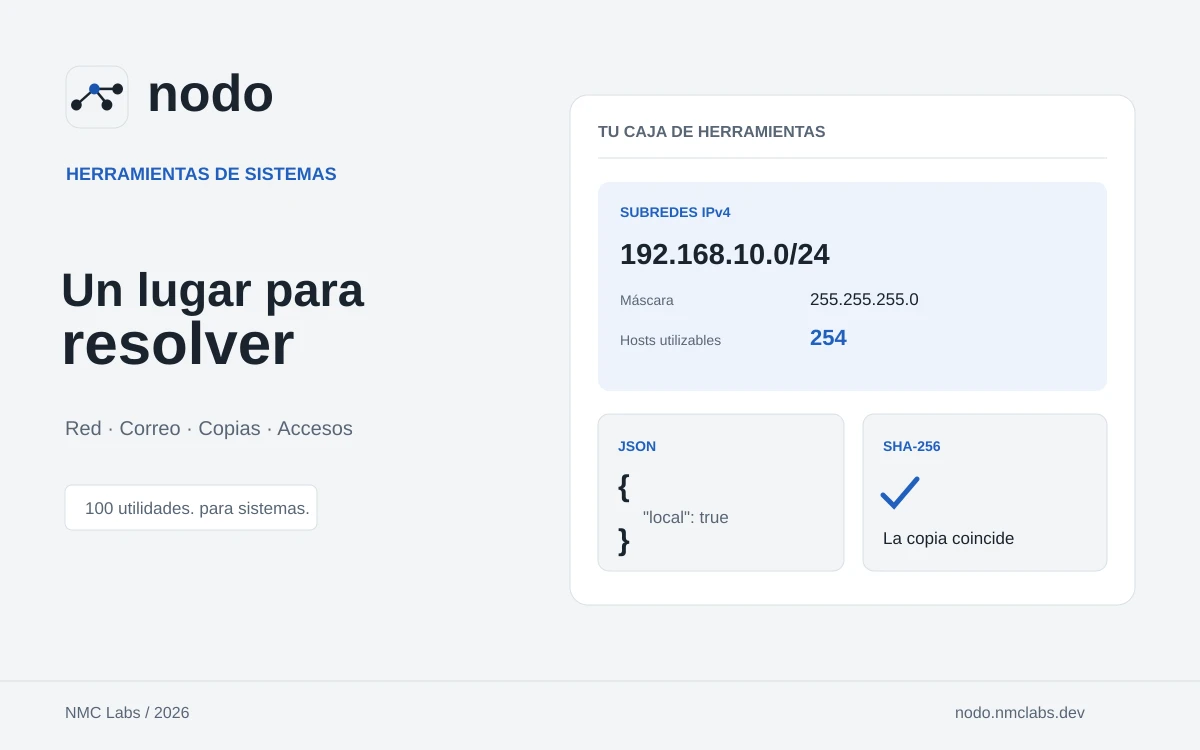
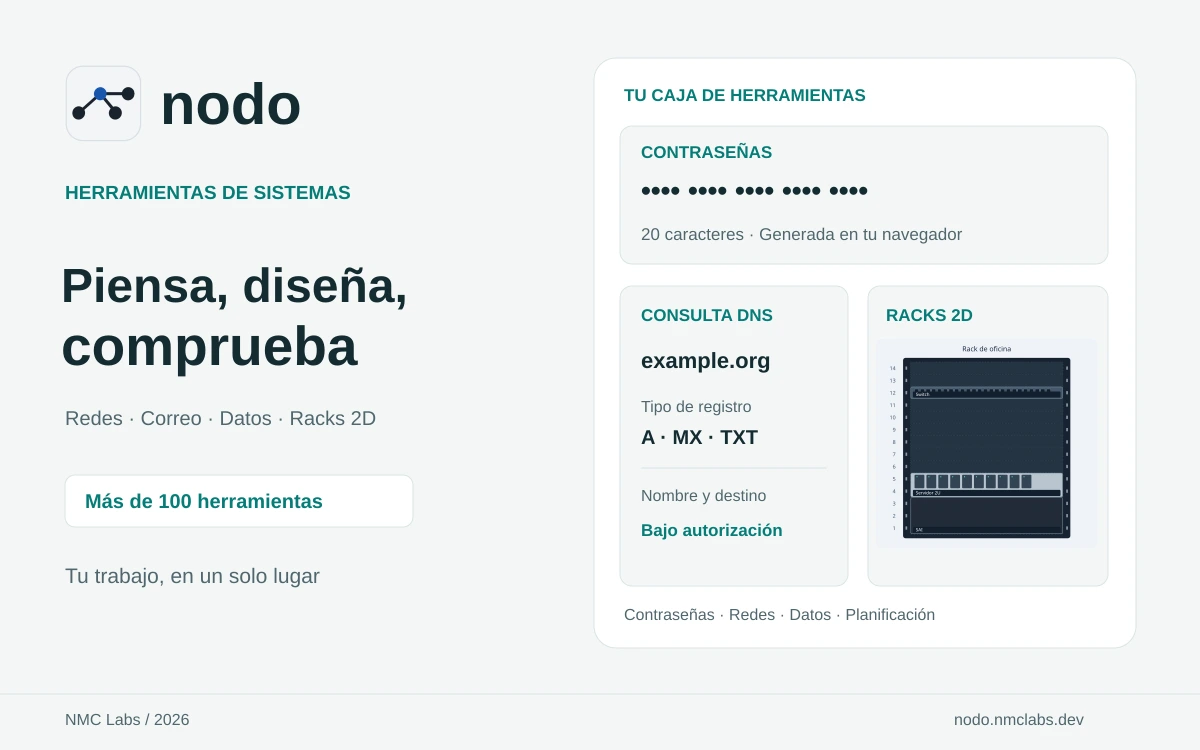
Refresh nodo showcase with passwords DNS and 2D rack planning

diff --git a/index.html b/index.html
@@ -51,7 +51,7 @@
       </article>
       <article class="featured amano-featured" aria-labelledby="amano-titulo"><div class="featured-content"><p class="eyebrow"><time datetime="2026">2026</time> · INVENTARIO DE EMPRESA</p><h3 id="amano-titulo">Cada equipo,<br>en su sitio</h3><p>amano conecta el material de una empresa con las personas, las ubicaciones y su historial. Registra equipos con foto, personaliza la identidad de tu empresa y prueba asignaciones, préstamos, devoluciones, mantenimiento y etiquetas QR.</p><ul class="tags" aria-label="Funciones de amano"><li>Inventario</li><li>Custodia y préstamos</li><li>QR y mantenimiento</li></ul><a class="button project-cta" href="https://amano.nmclabs.dev/" target="_blank" rel="noopener noreferrer">Descubrir amano <span aria-hidden="true"><svg class="icon-arrow" viewBox="0 0 24 24" fill="none"><path d="m6 18 12-12M6 6h12v12" stroke="currentColor" stroke-width="1.7" stroke-linecap="round" stroke-linejoin="round"/></svg></span></a></div><a class="amano-art brand-art" href="https://amano.nmclabs.dev/" target="_blank" rel="noopener noreferrer" aria-label="Descubrir amano en una pestaña nueva"><picture class="project-cover"><source media="(prefers-color-scheme: dark)" srcset="proyectos/amano-brand-dark.webp?v=themes1"><img src="proyectos/amano-brand-light.webp?v=themes1" width="1200" height="750" alt="amano: equipo identificado, portátil y persona responsable" loading="lazy"></picture></a><details class="project-origin"><summary><span>La idea detrás del proyecto</span><span class="origin-toggle" aria-hidden="true">+</span></summary><div class="origin-content" aria-label="La idea de amano"><div><span class="origin-label">LA IDEA</span><p>Saber qué material tiene una empresa, dónde está y quién lo utiliza sin depender de varias hojas y mensajes.</p></div><div><span class="origin-label">EL RETO</span><p>Conectar cada equipo con su persona responsable, las entregas, las devoluciones y los cuidados pendientes.</p></div><div><span class="origin-label">LA DECISIÓN</span><p>Dar identidad propia a cada unidad y permitir probar el recorrido completo, desde el alta hasta una etiqueta QR.</p></div></div></details></article>
       <article class="featured apunto-featured" aria-labelledby="apunto-titulo"><div class="featured-content"><p class="eyebrow"><time datetime="2026">2026</time> · GESTIÓN DE TALLERES</p><h3 id="apunto-titulo">Cada reparación,<br>bajo control</h3><p>apunto conecta citas, recepción y reparación para talleres de coches y motos. El cliente revisa el presupuesto original y sus adicionales; el negocio planifica profesionales y elevadores, gestiona piezas y conserva el historial. Incluye cobro presencial, resguardo y recordatorios de mantenimiento en una demo local.</p><ul class="tags" aria-label="Funciones de apunto"><li>Presupuestos y adicionales</li><li>Clientes y planificación</li><li>Historial y mantenimiento</li></ul><a class="button project-cta" href="https://apunto.nmclabs.dev/" target="_blank" rel="noopener noreferrer">Descubrir apunto <span aria-hidden="true"><svg class="icon-arrow" viewBox="0 0 24 24" fill="none"><path d="m6 18 12-12M6 6h12v12" stroke="currentColor" stroke-width="1.7" stroke-linecap="round" stroke-linejoin="round"/></svg></span></a></div><a class="apunto-art brand-art" href="https://apunto.nmclabs.dev/" target="_blank" rel="noopener noreferrer" aria-label="Descubrir apunto en una pestaña nueva"><picture class="project-cover"><source media="(prefers-color-scheme: dark)" srcset="proyectos/apunto-brand-dark.webp?v=20261121"><img src="proyectos/apunto-brand-light.webp?v=20261121" width="1200" height="750" alt="apunto: marca, vehículo y orden de trabajo" loading="lazy"></picture></a><details class="project-origin"><summary><span>La idea detrás del proyecto</span><span class="origin-toggle" aria-hidden="true">+</span></summary><div class="origin-content" aria-label="La idea de apunto"><div><span class="origin-label">LA IDEA</span><p>Una reparación necesita coordinar el trabajo del taller y mantener informado al cliente.</p></div><div><span class="origin-label">EL RETO</span><p>Conectar diagnóstico, presupuesto y piezas sin perder el estado ni la decisión del cliente.</p></div><div><span class="origin-label">LA DECISIÓN</span><p>Una orden de principio a fin, con acceso del cliente y versiones del presupuesto que conservan su historial.</p></div></div></details></article>
-<article class="featured nodo-featured" aria-labelledby="nodo-titulo"><div class="featured-content"><p class="eyebrow"><time datetime="2026">2026</time> · HERRAMIENTAS DE SISTEMAS</p><h3 id="nodo-titulo">Un lugar para<br>resolver</h3><p>100 herramientas para sistemas: contraseñas con ajuste automático, DNS y correo, redes, informes, datos y soporte. Cada utilidad tiene su propia página y guía. El cálculo es local; las consultas DNS públicas requieren autorización.</p><ul class="tags" aria-label="Funciones de nodo"><li>100 herramientas</li><li>Redes, copias y datos</li><li>Procesamiento local</li></ul><a class="button project-cta" href="https://nodo.nmclabs.dev/" target="_blank" rel="noopener noreferrer">Descubrir nodo</a></div><a class="nodo-art brand-art" href="https://nodo.nmclabs.dev/" target="_blank" rel="noopener noreferrer" aria-label="Descubrir nodo en una pestaña nueva"><picture class="project-cover"><source media="(prefers-color-scheme: dark)" srcset="proyectos/nodo-brand-dark.webp?v=20261122-v6"><img src="proyectos/nodo-brand-light.webp?v=20261122-v6" width="1200" height="750" alt="nodo: herramientas de sistemas, DNS, correo y archivos" loading="lazy"></picture></a><details class="project-origin"><summary><span>La idea detrás del proyecto</span><span class="origin-toggle" aria-hidden="true">+</span></summary><div class="origin-content" aria-label="La idea de nodo"><div><span class="origin-label">LA IDEA</span><p>Resolver esas pequeñas tareas de sistemas que se repiten cada día, desde un solo lugar.</p></div><div><span class="origin-label">EL RETO</span><p>Generar accesos, conectar invitados y comprobar una copia sin enviar información privada a un servicio.</p></div><div><span class="origin-label">LA DECISIÓN</span><p>Un catálogo con buscador, seis áreas y procesos aislados. Documentos locales y consultas DNS autorizadas, sin guardar datos entre visitas.</p></div></div></details></article>
+<article class="featured nodo-featured" aria-labelledby="nodo-titulo"><div class="featured-content"><p class="eyebrow"><time datetime="2026">2026</time> · HERRAMIENTAS DE SISTEMAS</p><h3 id="nodo-titulo">Piensa, diseña,<br>comprueba</h3><p>Más de 100 herramientas para trabajar con redes, correo, datos y accesos. Diseña racks en 2D, coloca equipos, comprueba DNS y prepara informes. Una interfaz centrada en cada tarea, con cálculos locales y consultas externas autorizadas.</p><ul class="tags" aria-label="Funciones de nodo"><li>Más de 100 herramientas</li><li>Contraseñas y DNS</li><li>Racks 2D</li></ul><a class="button project-cta" href="https://nodo.nmclabs.dev/" target="_blank" rel="noopener noreferrer">Descubrir nodo</a></div><a class="nodo-art brand-art" href="https://nodo.nmclabs.dev/" target="_blank" rel="noopener noreferrer" aria-label="Descubrir nodo en una pestaña nueva"><picture class="project-cover"><source media="(prefers-color-scheme: dark)" srcset="proyectos/nodo-brand-dark.webp?v=20261124-focus"><img src="proyectos/nodo-brand-light.webp?v=20261124-focus" width="1200" height="750" alt="nodo: contraseñas, consulta DNS y diseñador de racks 2D" loading="lazy"></picture></a><details class="project-origin"><summary><span>La idea detrás del proyecto</span><span class="origin-toggle" aria-hidden="true">+</span></summary><div class="origin-content" aria-label="La idea de nodo"><div><span class="origin-label">LA IDEA</span><p>Resolver esas pequeñas tareas de sistemas que se repiten cada día, desde un solo lugar.</p></div><div><span class="origin-label">EL RETO</span><p>Generar accesos, conectar invitados y comprobar una copia sin enviar información privada a un servicio.</p></div><div><span class="origin-label">LA DECISIÓN</span><p>Herramientas agrupadas en la navegación superior, procesos locales y un editor visual de racks. Los proyectos se descargan de forma explícita y las consultas públicas requieren autorización.</p></div></div></details></article>
       <article class="featured estancia-featured" aria-labelledby="estancia-titulo"><div class="featured-content"><p class="eyebrow"><time datetime="2026">2026</time> · HOTELES Y ALOJAMIENTOS</p><h3 id="estancia-titulo">Cada estancia,<br>bien cuidada</h3><p>estancia conecta reservas, habitaciones y tarifas de temporada para hoteles, apartamentos y casas rurales. Gestiona categorías y fotos, prueba el check-in del huésped y atiende sus incidencias. Incluye informes, web del alojamiento y una guía para preparar conexiones con Airbnb o Booking.</p><ul class="tags" aria-label="Funciones de estancia"><li>Reservas</li><li>Tipos y cupos</li><li>Tarifas e informes</li></ul><a class="button project-cta" href="https://estancia.nmclabs.dev/" target="_blank" rel="noopener noreferrer">Descubrir estancia <span aria-hidden="true"><svg class="icon-arrow" viewBox="0 0 24 24" fill="none"><path d="m6 18 12-12M6 6h12v12" stroke="currentColor" stroke-width="1.7" stroke-linecap="round" stroke-linejoin="round"/></svg></span></a></div><a class="estancia-art brand-art" href="https://estancia.nmclabs.dev/" target="_blank" rel="noopener noreferrer" aria-label="Descubrir estancia en una pestaña nueva"><picture class="project-cover"><source media="(prefers-color-scheme: dark)" srcset="proyectos/estancia-brand-dark.webp?v=themes1"><img src="proyectos/estancia-brand-light.webp?v=themes1" width="1200" height="750" alt="estancia: marca, alojamiento y calendario de reservas" loading="lazy"></picture></a><details class="project-origin"><summary><span>La idea detrás del proyecto</span><span class="origin-toggle" aria-hidden="true">+</span></summary><div class="origin-content" aria-label="La idea de estancia"><div><span class="origin-label">LA IDEA</span><p>Organizar reservas y preparar cada llegada sin perder la cercanía con los huéspedes.</p></div><div><span class="origin-label">EL RETO</span><p>Conectar la disponibilidad de cada unidad, las tareas y la experiencia de quien reserva.</p></div><div><span class="origin-label">LA DECISIÓN</span><p>Una gestión para el negocio y una web con su propia identidad, con ejemplos de hotel, apartamentos y finca rural.</p></div></div></details></article>
       <article class="featured atlas-featured" aria-labelledby="atlas-titulo">
         <div class="featured-content"><p class="eyebrow"><time datetime="2026">2026</time> · PATRIMONIO PERSONAL</p><h3 id="atlas-titulo">Un lugar para ver<br>tu patrimonio</h3><p>atlas reúne cuentas, inversiones y activos en una visión clara. Un registro mensual para entender tu evolución, a tu ritmo.</p><ul class="tags" aria-label="Funciones de Atlas"><li>Patrimonio</li><li>Evolución</li><li>Informes</li></ul><a class="button project-cta" href="https://atlas.nmclabs.dev/" target="_blank" rel="noopener noreferrer">Descubrir atlas <span aria-hidden="true"><svg class="icon-arrow" viewBox="0 0 24 24" fill="none" aria-hidden="true"><path d="m6 18 12-12M6 6h12v12" stroke="currentColor" stroke-width="1.7" stroke-linecap="round" stroke-linejoin="round"/></svg></span><span class="sr-only"> (se abre en una pestaña nueva)</span></a></div>

diff --git a/ASSET-PROVENANCE.md b/ASSET-PROVENANCE.md
@@ -17,3 +17,5 @@
 - nodo v5: las portadas conservan el símbolo de conexiones e incorporan el catálogo de 72 herramientas.
 
 - nodo v6: portadas de 100 herramientas, con el símbolo de conexiones y variantes del sistema conservadas.
+
+- nodo · 24/11/2026: portadas clara y oscura de la interfaz verde, con composiciones de contraseñas, DNS y plano esquemático de rack 2D. Ilustración vectorial original reproducible en `nmclabs-nodo/scripts/cover-focus.mjs`, sin fotografías de fabricantes.
